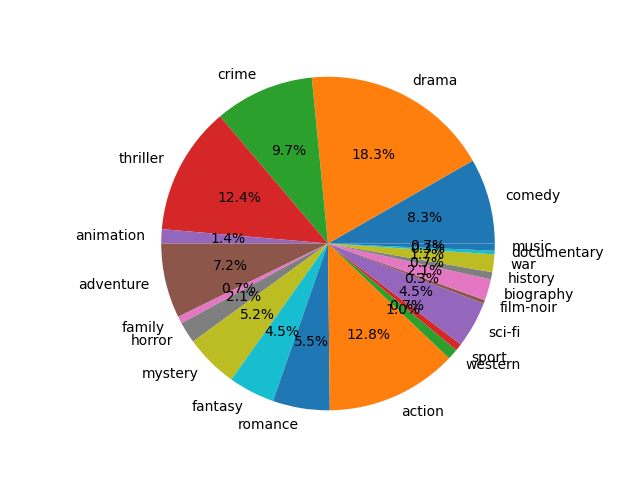
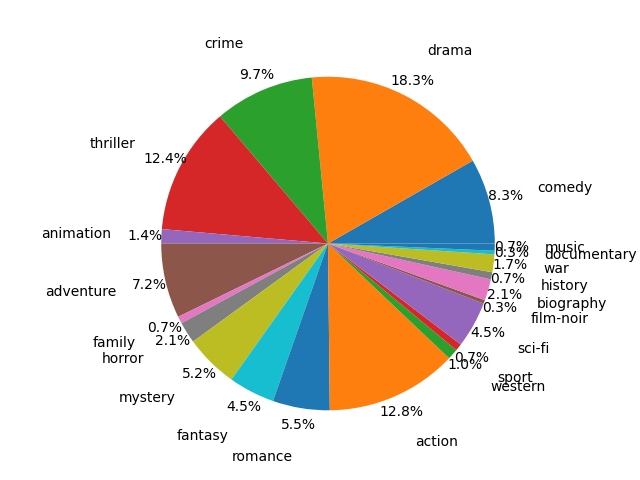
merge

diff --git a/plague_project/plague_engine.py b/plague_project/plague_engine.py
@@ -80,7 +80,7 @@ def figure(matches, search_query):
         values.append(value)
 
     fig1, ax1 = plt.subplots()
-    ax1.pie(values, labels=labels, autopct='%1.1f%%')
+    ax1.pie(values, labels=labels, autopct='%1.1f%%', pctdistance=1.1, labeldistance=1.3)
     ax1.axis('equal')
 
     fig1.savefig('static/pie_chart_{}.png'.format(search_query))
